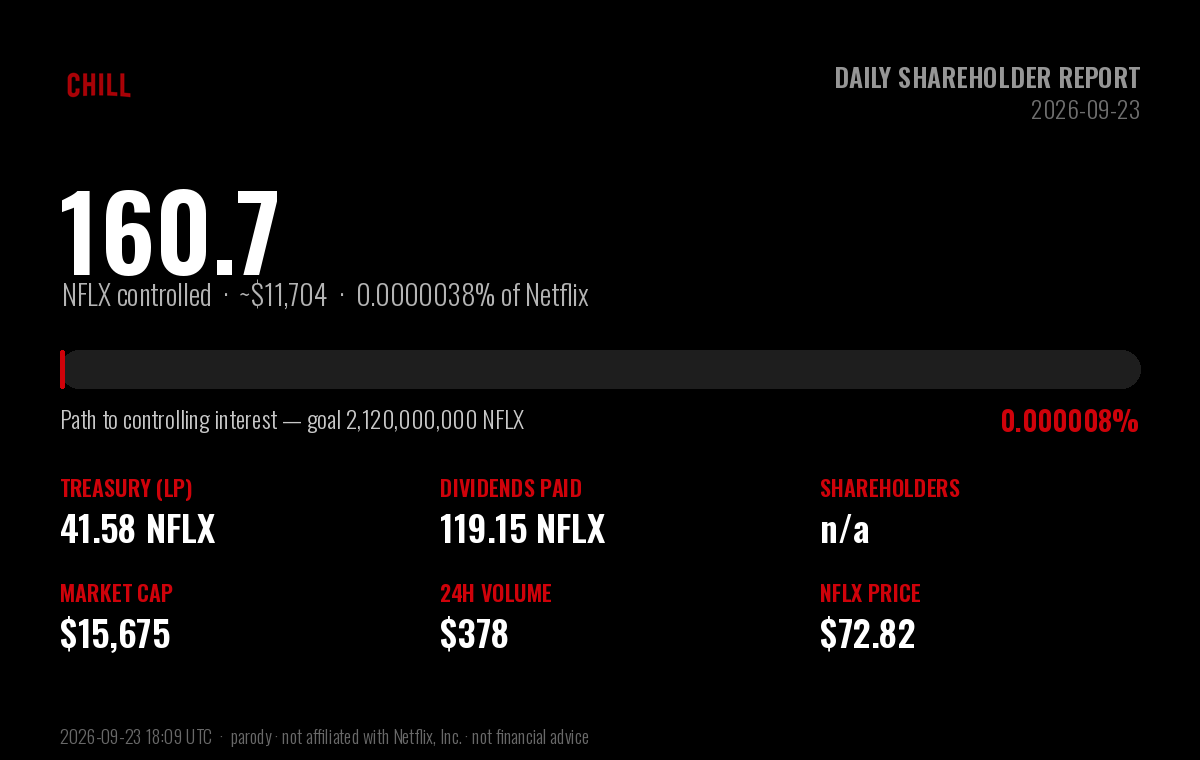
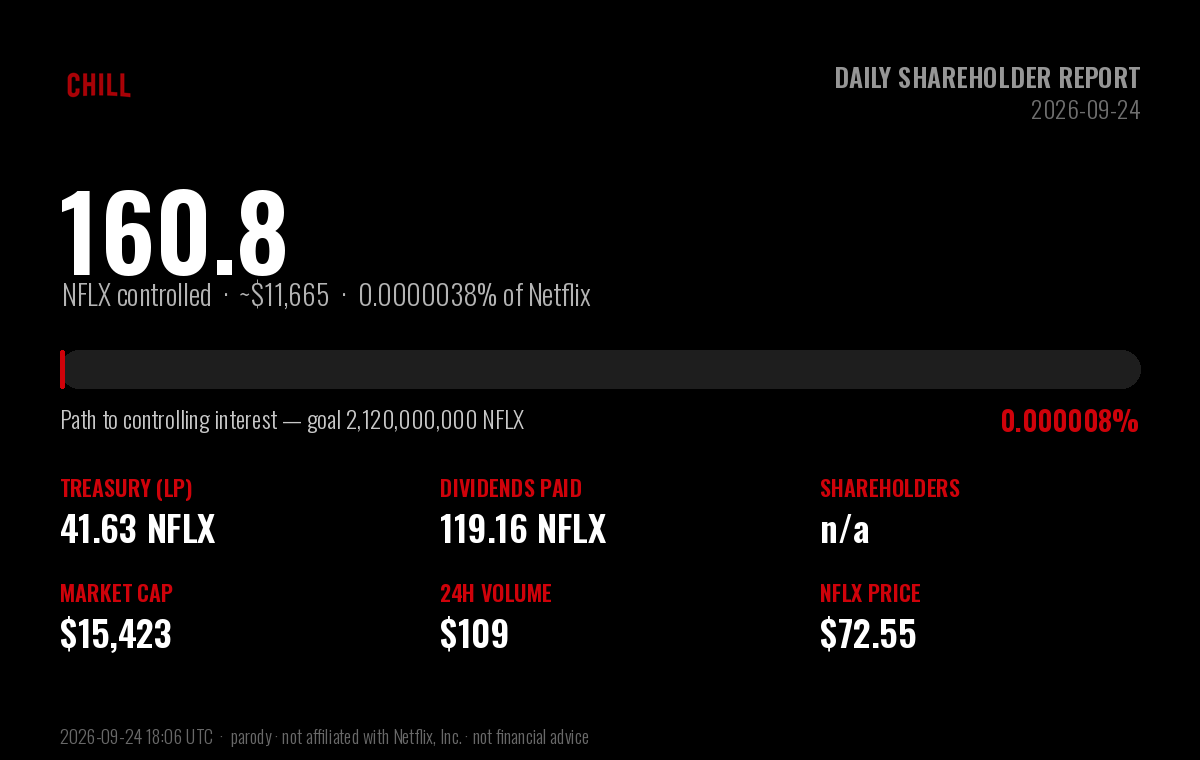
chore: daily $CHILL shareholder report (2026-09-24)

diff --git a/daily-holder-report/README.md b/daily-holder-report/README.md
@@ -1,6 +1,6 @@
 # $CHILL — Daily Shareholder Report
 
-### Netflix and Chill · Report to Shareholders · 2026-09-23
+### Netflix and Chill · Report to Shareholders · 2026-09-24
 
 > **Corporate objective:** acquire a controlling interest in Netflix (NFLX).
 > Netflix has **4,220,000,000** shares outstanding; a majority
@@ -13,8 +13,8 @@
 
 | Metric | Value |
 |---|---|
-| **NFLX under $CHILL control** | **160.73 NFLX** (~$11,704) |
-| Stake in Netflix | 0.000003809% of shares outstanding |
+| **NFLX under $CHILL control** | **160.79 NFLX** (~$11,665) |
+| Stake in Netflix | 0.000003810% of shares outstanding |
 | Progress to controlling interest | 0.0000076% of 2,120,000,000 |
 | Shares remaining to majority | 2,119,999,839 NFLX |
 
@@ -22,44 +22,44 @@
 
 | Holding | NFLX | USD |
 |---|---|---|
-| Treasury (protocol-owned liquidity) | 41.58 | $3,028 |
-| Dividends distributed to shareholders | 119.15 | $8,676 |
-| **Total NFLX controlled** | **160.73** | **$11,704** |
+| Treasury (protocol-owned liquidity) | 41.63 | $3,020 |
+| Dividends distributed to shareholders | 119.16 | $8,645 |
+| **Total NFLX controlled** | **160.79** | **$11,665** |
 
 ## Last 24 hours
 
 | Metric | Value |
 |---|---|
-| Trading volume | 5.19 NFLX (~$378) |
-| Net NFLX accumulated | -5.11 NFLX |
-| Dividends generated | 0.0519 NFLX |
-| Transactions | 5 (2 buys / 3 sells) |
-| $CHILL price change | -1.8% |
+| Trading volume | 1.50 NFLX (~$109) |
+| Net NFLX accumulated | 0.05 NFLX |
+| Dividends generated | 0.0150 NFLX |
+| Transactions | 6 (4 buys / 2 sells) |
+| $CHILL price change | -2.6% |
 
 ## Shareholder & market data
 
 | Metric | Value |
 |---|---|
 | Shareholders of record | n/a |
-| Lifetime unique participants | 1798 |
+| Lifetime unique participants | 1799 |
 | Shares outstanding ($CHILL) | 1,000,000,000 |
-| Market capitalization | $15,675 |
-| $CHILL price | $0.00001567 |
-| NFLX price | $72.82 |
-| Lifetime volume | 11,914.51 NFLX (~$867,611) |
-| Lifetime transactions | 8,530 (4,772 buys / 3,758 sells) |
-| Days since IPO (launch) | 66 |
+| Market capitalization | $15,423 |
+| $CHILL price | $0.00001542 |
+| NFLX price | $72.55 |
+| Lifetime volume | 11,916.01 NFLX (~$864,473) |
+| Lifetime transactions | 8,536 (4,776 buys / 3,760 sells) |
+| Days since IPO (launch) | 67 |
 
 ## Per-share metrics
 
 | Metric | Value |
 |---|---|
-| NFLX backing per 1M $CHILL | 0.160727 NFLX |
-| Dividends per 1M $CHILL | 0.119145 NFLX |
+| NFLX backing per 1M $CHILL | 0.160787 NFLX |
+| Dividends per 1M $CHILL | 0.119160 NFLX |
 
 ---
 
-*Report generated 2026-09-23 18:09 UTC · block 70,716,924 · data via the Sentry-Robinhood
+*Report generated 2026-09-24 18:06 UTC · block 71,571,254 · data via the Sentry-Robinhood
 subgraph and Robinhood Chain explorer.*
 
 **Disclaimer:** $CHILL is an independent, community-driven **parody** token. It is
